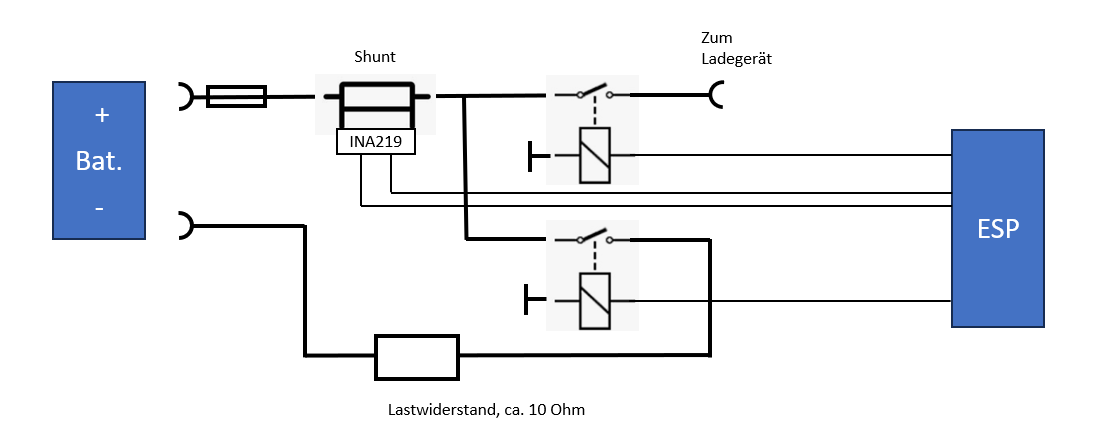
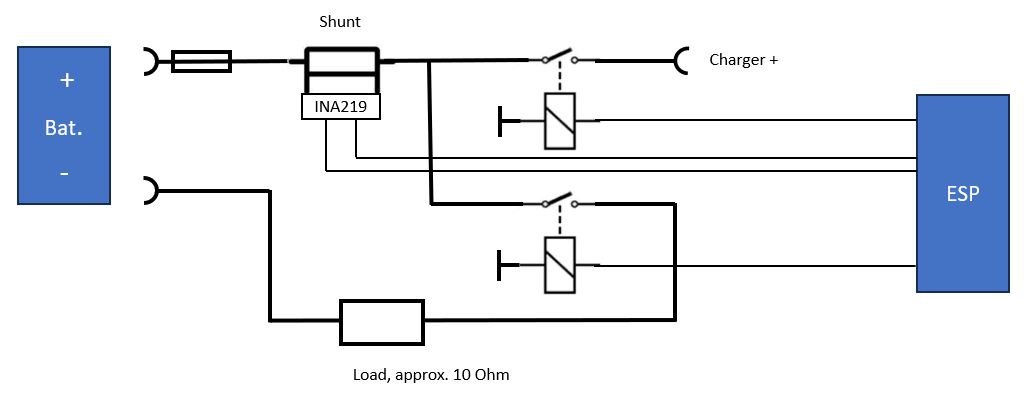
Doc.: fixed images

Changed region(s): [[0.0, 0.0301, 0.9961, 0.8722], [0.3424, 0.9023, 0.5292, 0.9624]]

diff --git a/README.md b/README.md
@@ -53,7 +53,12 @@ The web UI provides:
 - Start / Stop / Mode control
 - CSV download of logged measurement data
 
-![User Interface](doc/user_interface.png)
+
+<figure align="center">
+<img src="doc/user_interface.png" style="max-width:800px; width:100%;">
+  <figcaption>User interface</figcaption>
+</figure>
+
 
 ### Internal API
 
@@ -89,13 +94,28 @@ All user-adjustable parameters are centralized in `config.h`.
 Recommended environment: PlatformIO with Arduino framework  
 Target platform: ESP32-C3
 
-![Battery Tester Circuit](doc/Battery_Tester_Circuit.png)
+<!--![Battery Tester Circuit](doc/Battery_Tester_Circuit.png) -->
+<figure align="center">
+  <img src="doc/Battery_Tester_Circuit.png" style="max-width:800px; width:100%;">
+  <figcaption>Circuit</figcaption>
+</figure>
+
+<figure align="center">
+  <img src="doc/ESP_wiring.png" style="max-width:800px; width:100%;">
+  <figcaption>ESP32 wiring</figcaption>
+</figure>
+
+<figure align="center">
+  <img src="doc/test-1.jpg" style="max-width:800px; width:100%;">
+  <figcaption>First test</figcaption>
+</figure>
 
 
-![ESP32 Wiring](/ESP_wiring.png)
+<!--
+![ESP32 Wiring](doc/ESP_wiring.png)
 
 ![Device under test](doc/test-1.jpg)
-
+-->
 
 ## Usage
 
